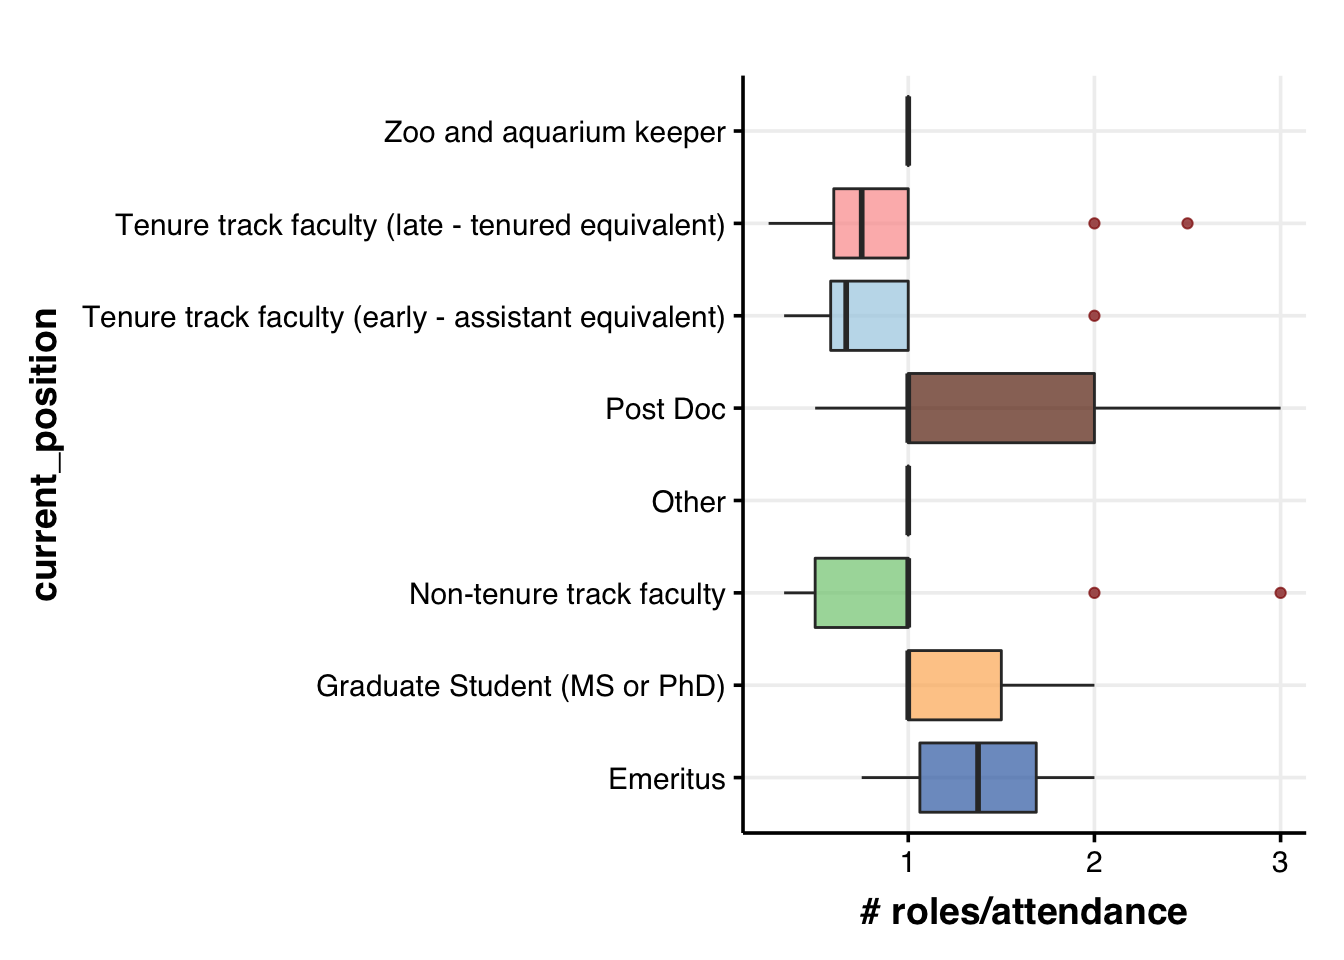
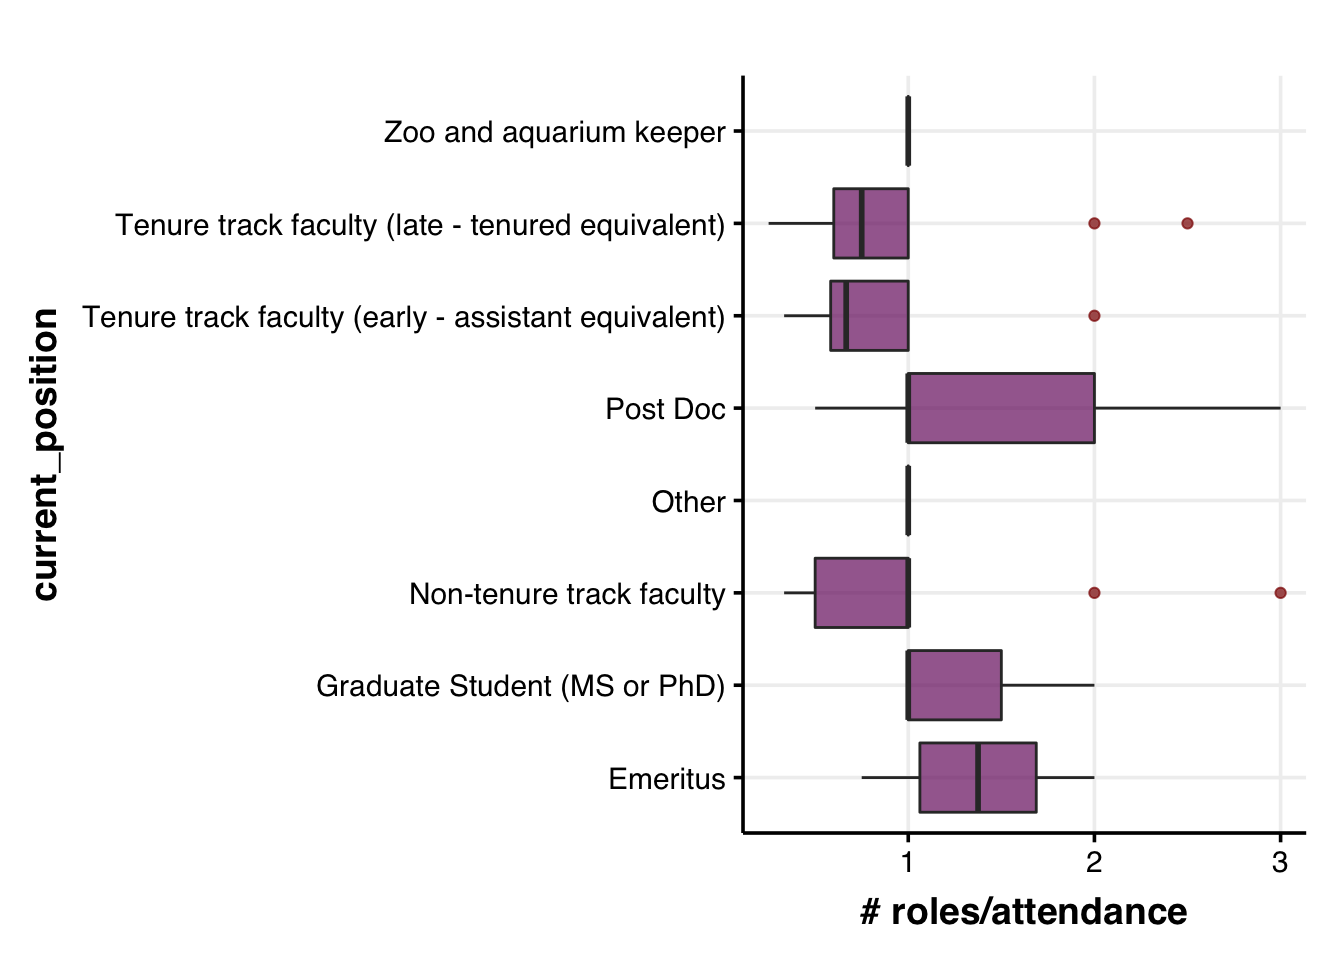
minor design updates

Changed region(s): [[0.5938, 0.1875, 0.8125, 0.4688], [0.6562, 0.6562, 0.7812, 0.8438], [0.5938, 0.5625, 0.6875, 0.6562]]

diff --git a/docs/IUSSI2022.html b/docs/IUSSI2022.html
@@ -445,9 +445,9 @@ div.tocify {
 
 
 <h1 class="title toc-ignore">Demography data for IUSSI</h1>
-<h4 class="author">Biplabendu Das</h4>
+<h4 class="author">DEIJ Committee, IUSSI</h4>
 <address class="author_afil">
-DEIJ Committee, IUSSI<br><h4 class="date">25 July, 2022</h4>
+In case of questions, please contact <a href="https://biplabendu.github.io/homepage/">Biplabendu Das</a><br><h4 class="date">Last updated on 26 July, 2022</h4>
 
 </div>
 
@@ -1141,9 +1141,9 @@ dat %&gt;%
   mutate(activity = num_roles/num_attended) %&gt;% 
     
   ## Plot: research_location + gender
-  ggplot(aes(x=current_position, y=activity,fill=current_position)) +
+  ggplot(aes(x=current_position, y=activity)) +
     # geom_bar(position=&quot;stack&quot;, stat=&quot;identity&quot;, size=2) +
-    geom_boxplot(alpha=0.7, outlier.colour = &quot;darkred&quot;) +
+    geom_boxplot(alpha=0.7, outlier.colour = &quot;darkred&quot;, fill=viridis::inferno(10)[4]) +
     labs(y=&quot;# roles/attendance&quot;) +
     # geom_hline(yintercept = 5, col=&quot;grey60&quot;, alpha=0.7, size=1) +
     coord_flip() +
@@ -1284,12 +1284,12 @@ trash &lt;- dev.off()
 
 }</code></pre>
 <hr />
-<div id="results-in-a-table" class="section level3">
-<h3>Results in a table</h3>
 <p>The goal is to perform enrichment analyses (using hypergeometric analyses) to identify under (or over) represented groups (based on gender, ethnicity, etc) in different activities (roles) at IUSSI.</p>
 <blockquote>
-<p>We found several overrepresented groups for specific roles. The results are provided in the table below.</p>
+<p>We found several overrepresented groups for specific roles. The results are provided in the table/figure below.</p>
 </blockquote>
+<div id="results-in-a-table" class="section level3">
+<h3>Results in a table</h3>
 <pre class="r"><code>source(paste0(path_to_repo,&quot;functions/underrepresentation_analyses.R&quot;))
 
 ## Format the data
@@ -1332,9 +1332,12 @@ bind_rows(results.list, .id = &quot;column_label&quot;) %&gt;%
     arrange(annot_term, adj_pVal) %&gt;% 
     
     DT::datatable()</code></pre>
-<div id="htmlwidget-858fdc84ea98b07053af" style="width:100%;height:auto;" class="datatables html-widget"></div>
-<script type="application/json" data-for="htmlwidget-858fdc84ea98b07053af">{"x":{"filter":"none","data":[["1","2","3","4","5","6","7","8","9","10","11","12","13","14","15","16","17","18","19","20","21","22","23","24","25","26","27","28","29","30","31","32","33","34","35","36","37","38","39","40","41","42","43","44","45"],["Administrative duties","Administrative duties","Administrative duties","Administrative duties","Administrative duties","Attendee","Attendee","Attendee","Attendee","Attendee","Attendee","Attendee","Attendee","Attendee","Attendee","Attendee","Attendee","Attendee","Invited speaker","Invited speaker","Invited speaker","Invited speaker","Invited speaker","Invited speaker","Invited speaker","Invited speaker","Invited speaker","Invited speaker","Invited speaker","Invited speaker","Invited speaker","Invited speaker","Other","Other","Plenary speaker","Plenary speaker","Poster presenter","Poster presenter","Poster presenter","Poster presenter","Poster presenter","Poster presenter","Poster presenter","Poster presenter","Poster presenter"],["residence_location: Australasia","research_location: Australasia","current_position: Tenure tr","ethnic_identity: White","gender: Cisgender woman","gender: Cisgender woman","current_position: Tenure tr","ethnic_identity: additional_category","ethnic_identity: White","gender: additional_category","research_location: Middle East","residence_location: Australasia","residence_location: Middle East","research_location: Continental US","residence_location: Canada","research_location: Australasia","residence_location: Continental US","current_position: Post Doc","current_position: Non-tenur","current_position: Tenure tr","ethnic_identity: White","current_position: Tenure tr","research_location: Central America","residence_location: Canada","ethnic_identity: additional_category","residence_location: Continental US","research_location: Canada","gender: additional_category","research_location: Continental US","residence_location: Australasia","research_location: Sub-Saharan Africa","research_location: Australasia","ethnic_identity: South Asian","current_position: Post Doc","current_position: Tenure tr","ethnic_identity: White","gender: Cisgender man","current_position: Non-tenur","current_position: Tenure tr","ethnic_identity: White","current_position: Tenure tr","research_location: South America","research_location: Canada","residence_location: Canada","research_location: Sub-Saharan Africa"],["over","over","over","over","over","over","over","over","over","over","over","over","over","over","over","over","over","over","over","over","over","over","over","over","over","over","over","over","over","over","over","over","over","over","over","over","over","over","over","over","over","over","over","over","over"],[0,0,0,0.024,0.034,0,0,0,0,0.001,0.001,0.008,0.016,0.024,0.045,0.045,0.047,0.049,0,0,0,0.004,0.006,0.011,0.012,0.018,0.018,0.02,0.026,0.034,0.038,0.045,0,0.013,0,0.038,0,0,0,0.001,0.004,0.012,0.014,0.019,0.029]],"container":"<table class=\"display\">\n  <thead>\n    <tr>\n      <th> <\/th>\n      <th>annot_term<\/th>\n      <th>what_desc<\/th>\n      <th>over_under<\/th>\n      <th>adj_pVal<\/th>\n    <\/tr>\n  <\/thead>\n<\/table>","options":{"columnDefs":[{"className":"dt-right","targets":4},{"orderable":false,"targets":0}],"order":[],"autoWidth":false,"orderClasses":false}},"evals":[],"jsHooks":[]}</script>
+<div id="htmlwidget-39d758d0c4c42c960af9" style="width:100%;height:auto;" class="datatables html-widget"></div>
+<script type="application/json" data-for="htmlwidget-39d758d0c4c42c960af9">{"x":{"filter":"none","data":[["1","2","3","4","5","6","7","8","9","10","11","12","13","14","15","16","17","18","19","20","21","22","23","24","25","26","27","28","29","30","31","32","33","34","35","36","37","38","39","40","41","42","43","44","45"],["Administrative duties","Administrative duties","Administrative duties","Administrative duties","Administrative duties","Attendee","Attendee","Attendee","Attendee","Attendee","Attendee","Attendee","Attendee","Attendee","Attendee","Attendee","Attendee","Attendee","Invited speaker","Invited speaker","Invited speaker","Invited speaker","Invited speaker","Invited speaker","Invited speaker","Invited speaker","Invited speaker","Invited speaker","Invited speaker","Invited speaker","Invited speaker","Invited speaker","Other","Other","Plenary speaker","Plenary speaker","Poster presenter","Poster presenter","Poster presenter","Poster presenter","Poster presenter","Poster presenter","Poster presenter","Poster presenter","Poster presenter"],["residence_location: Australasia","research_location: Australasia","current_position: Tenure tr","ethnic_identity: White","gender: Cisgender woman","gender: Cisgender woman","current_position: Tenure tr","ethnic_identity: additional_category","ethnic_identity: White","gender: additional_category","research_location: Middle East","residence_location: Australasia","residence_location: Middle East","research_location: Continental US","residence_location: Canada","research_location: Australasia","residence_location: Continental US","current_position: Post Doc","current_position: Non-tenur","current_position: Tenure tr","ethnic_identity: White","current_position: Tenure tr","research_location: Central America","residence_location: Canada","ethnic_identity: additional_category","residence_location: Continental US","research_location: Canada","gender: additional_category","research_location: Continental US","residence_location: Australasia","research_location: Sub-Saharan Africa","research_location: Australasia","ethnic_identity: South Asian","current_position: Post Doc","current_position: Tenure tr","ethnic_identity: White","gender: Cisgender man","current_position: Non-tenur","current_position: Tenure tr","ethnic_identity: White","current_position: Tenure tr","research_location: South America","research_location: Canada","residence_location: Canada","research_location: Sub-Saharan Africa"],["over","over","over","over","over","over","over","over","over","over","over","over","over","over","over","over","over","over","over","over","over","over","over","over","over","over","over","over","over","over","over","over","over","over","over","over","over","over","over","over","over","over","over","over","over"],[0,0,0,0.024,0.034,0,0,0,0,0.001,0.001,0.008,0.016,0.024,0.045,0.045,0.047,0.049,0,0,0,0.004,0.006,0.011,0.012,0.018,0.018,0.02,0.026,0.034,0.038,0.045,0,0.013,0,0.038,0,0,0,0.001,0.004,0.012,0.014,0.019,0.029]],"container":"<table class=\"display\">\n  <thead>\n    <tr>\n      <th> <\/th>\n      <th>annot_term<\/th>\n      <th>what_desc<\/th>\n      <th>over_under<\/th>\n      <th>adj_pVal<\/th>\n    <\/tr>\n  <\/thead>\n<\/table>","options":{"columnDefs":[{"className":"dt-right","targets":4},{"orderable":false,"targets":0}],"order":[],"autoWidth":false,"orderClasses":false}},"evals":[],"jsHooks":[]}</script>
 <hr />
+<blockquote>
+<p>And, here are the results as a heatmap.</p>
+</blockquote>
 </div>
 <div id="results-as-a-figure" class="section level3">
 <h3>Results as a figure</h3>
@@ -1384,9 +1387,6 @@ par(mar=c(10.1, 16.1, 4.1, 6.1))
          ylab = &quot;&quot;,
          axis.col=list(side=1, las=2), axis.row = list(side=2, las=1))
 trash &lt;- dev.off()</code></pre>
-<blockquote>
-<p>And, here are the results as a heatmap.</p>
-</blockquote>
 <div class="figure" style="text-align: center">
 <img src="images/2022_demography_data/enrichement_results.png" alt="Results of the enrichment test; colors indicate p-values returned by the hypergeometric test. Lower p-values suggest possible over-representation." width="95%" />
 <p class="caption">
@@ -1394,17 +1394,21 @@ Results of the enrichment test; colors indicate p-values returned by the hyperge
 </p>
 </div>
 <hr />
-<p>Reproducibility:</p>
-<ol style="list-style-type: decimal">
+</div>
+</div>
+<div id="supplementary" class="section level2">
+<h2>Supplementary</h2>
+<div id="reproducibility" class="section level3">
+<h3>1. Reproducibility</h3>
+<ul>
 <li><p>All code used for this document is available on my <a href="https://github.com/biplabendu/homepage/blob/master/IUSSI2022.Rmd">Github</a>.</p></li>
 <li><p>The function to perform enrichment analyses can be found <a href="https://github.com/biplabendu/homepage/blob/master/functions/underrepresentation_analyses.R">here</a></p></li>
-</ol>
-<hr />
+</ul>
 </div>
+<div id="iussi-2014-2018" class="section level3">
+<h3>2. IUSSI 2014 &amp; 2018</h3>
+<p>A summary of the demography data for folks that attended IUSSI 2014 and 2018 can be found <a href="https://biplabendu.github.io/homepage/IUSSI.html">here</a>.</p>
 </div>
-<div id="iussi-2014-2018" class="section level2">
-<h2>99. IUSSI 2014 &amp; 2018</h2>
-<p>The demography data for the participants that attended IUSSI 2014 and 2018 can be found <a href="https://biplabendu.github.io/homepage/IUSSI.html">here</a>.</p>
 </div>
 
 
